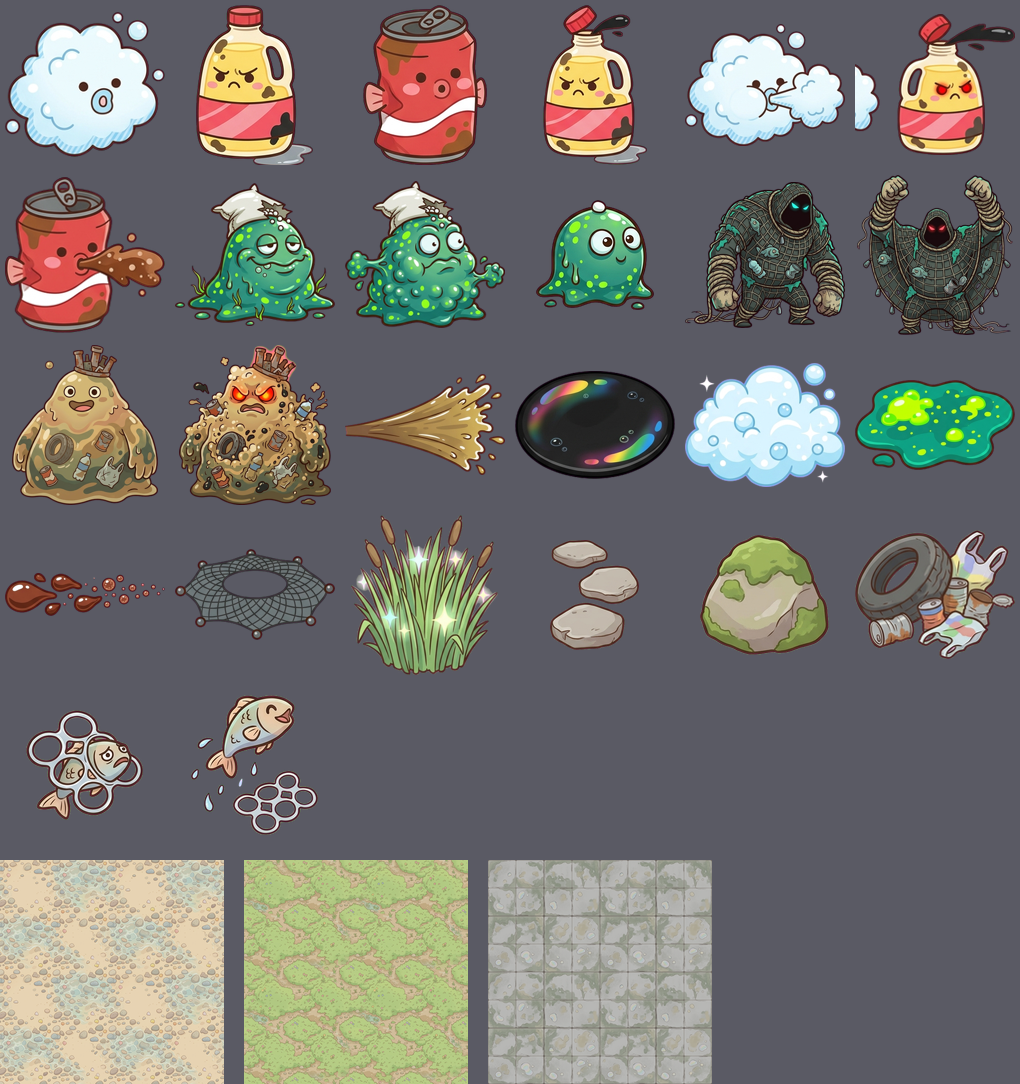
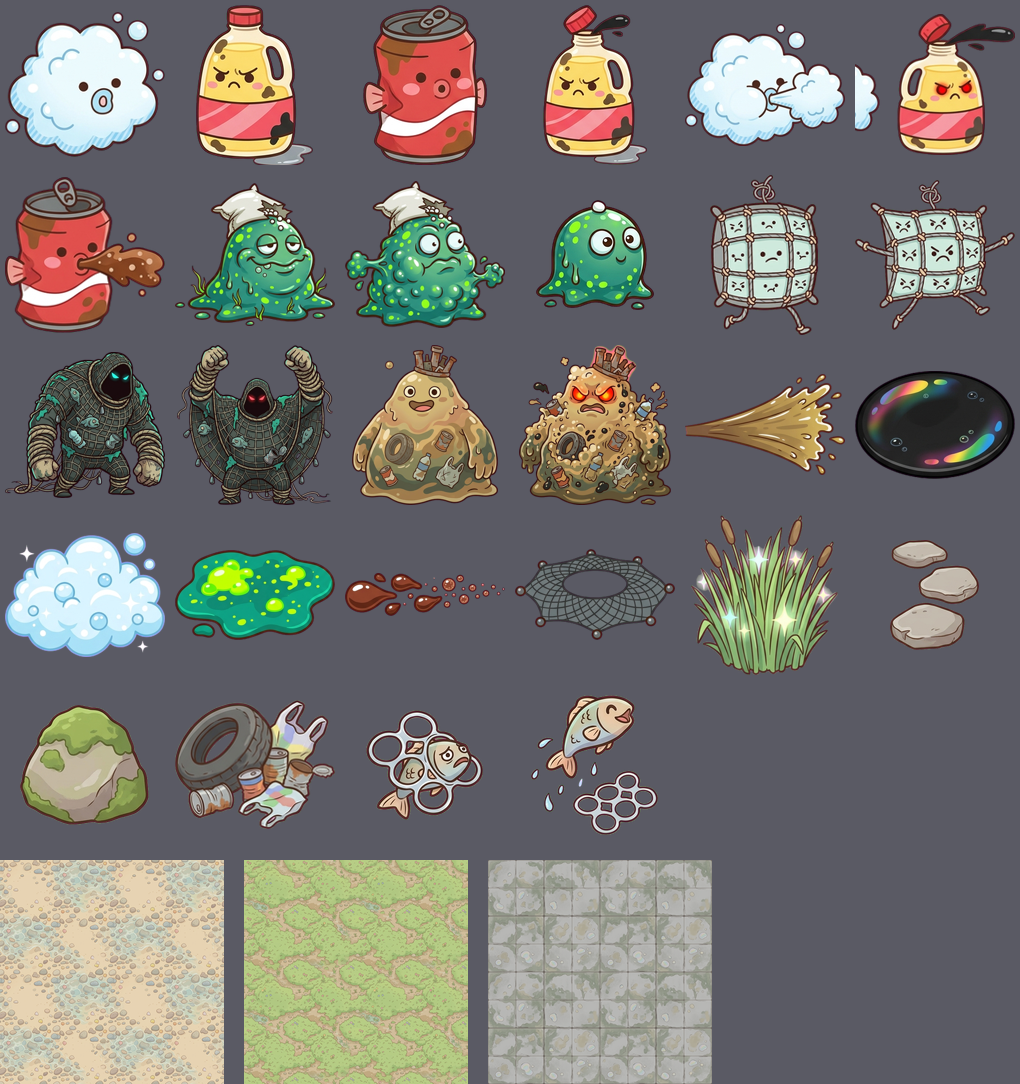
feat(ch3): replace the algae-mon with the net-mon (student's original net design)
The user's Gemini art of the student's original net monster (square net
body, a small face in every cell, thin rope limbs) becomes a normal enemy
in 3-4 and 3-5 instead of the algae-mon. It follows the player, and when
close spreads its net body (0.6 s warning, landing circle shown) and
pounces; if caught, the player is tangled at half speed for up to 3 s
(shaking frees faster, 1 s grace afterwards), distinct from the mid-boss
net that roots the player. Algae split/puddle code removed; the algae art
stays in the repository unused. 3-4 story, tip and knowledge card updated.
Tests 153/153; PC 1280 and phone 375 checked on the isolated server.

Claude-Session: https://claude.ai/code/session_018FkBuS6axNqY442iY2JwBP

diff --git a/game/src/themes.js b/game/src/themes.js
@@ -35,7 +35,7 @@ export const THEMES = [
       "세제를 많이 쓰면 거품이 개울까지 흘러가요. 세제는 조금만!",
       "쓰고 남은 식용유는 하수구에 붓지 말고 신문지에 흡수시켜 버려요.",
       "버려진 그물과 낚싯줄은 '유령 그물'이 되어 물고기를 계속 잡아요. 낚시 도구는 꼭 되가져가요.",
-      "비료와 세제를 적게 쓰면 녹조가 줄어요. 녹조가 번지면 물고기가 숨쉬기 힘들어요.",
+      "갈대는 더러운 물을 걸러 주는 자연 정수기예요. 물가 갈대숲을 지켜 주세요.",
       "물이 맑아지면 수달이 돌아와요!",
     ],
   },
@@ -144,9 +144,9 @@ export const T2_STAGES = [
 //  bubbler(거품몬: 거리를 두고 거품 쏘기 → 맞으면 잠깐 화면이 뿌예짐, 지나간 자리에 거품 웅덩이) ·
 //  oiler(페트리: 떼로 둘러싸고, 가까이 오면 뚜껑이 들썩(예고) → 앞으로 기름 뿜기, 기름 웅덩이) ·
 //  shooter(콜라 캔: 멀리서 조준(예고) → 콜라 물줄기 한 발) ·
-//  algae(녹조몬: 녹조 웅덩이를 남김, 8초 안에 정화 못 하면 부풀었다가 작은 녹조몬 2마리로 번식) ·
+//  pouncer(그물몬: 졸졸 따라오다 가까우면 그물 몸을 펼치고(예고) 그 자리로 덮침 → 걸리면 3초 동안 엉켜 느려짐 — 2026-09-30 저녁 녹조몬 대신, 학생 그물 몬스터 원안) ·
 //  netter(유령그물 대장: 졸졸 따라오고 밀려나지 않음, 팔을 들어 그물을 펼치면(예고) 표시된 원에 그물 → 걸리면 최대 3초 못 움직임).
-// cleanse = 정화될 때 바뀌는 모습(학생 원안: 거품몬 → 깨끗한 물통 · 페트리 → 화분 · 콜라 캔 → 생수병 · 녹조몬 → 수련 잎 · 대장 → 풀려나는 물고기).
+// cleanse = 정화될 때 바뀌는 모습(학생 원안: 거품몬 → 깨끗한 물통 · 페트리 → 화분 · 콜라 캔 → 생수병 · 그물몬 → 물고기 · 대장 → 풀려나는 물고기).
 export const T3_ENEMIES = {
   T3_BUBBLE:  { name: "거품몬", type: "normal", behavior: "bubbler", hpMult: 1.3, atkMult: 0.9, spdU: 2.3, radiusU: 0.45, mass: 1, xp: 3, sprite: "t3_en_bubble", drawH: 50,
                 frames: { atk: "t3_en_bubble_atk" }, cleanse: "깨끗한 물통" },
@@ -154,9 +154,8 @@ export const T3_ENEMIES = {
                 frames: { windup: "t3_en_petri_windup", fire: "t3_en_petri_fire" }, cleanse: "화분" },
   T3_CAN:     { name: "콜라 캔 몬스터", type: "normal", behavior: "shooter", hpMult: 1.5, atkMult: 1.0, spdU: 2.2, radiusU: 0.42, mass: 1.2, xp: 3, sprite: "t3_en_can", drawH: 48,
                 frames: { fire: "t3_en_can_fire" }, cleanse: "생수병" },
-  T3_ALGAE:   { name: "녹조몬", type: "normal", behavior: "algae", hpMult: 2.0, atkMult: 1.1, spdU: 1.7, radiusU: 0.5, mass: 1.6, xp: 4, sprite: "t3_en_algae", drawH: 56,
-                frames: { swell: "t3_en_algae_swell" }, split: { id: "T3_ALGAE_S", n: 2, afterS: 8 }, cleanse: "수련 잎" },
-  T3_ALGAE_S: { name: "작은 녹조몬", type: "normal", behavior: "algae", hpMult: 0.8, atkMult: 0.8, spdU: 2.4, radiusU: 0.32, mass: 0.6, xp: 2, sprite: "t3_en_algae_small", drawH: 34, cleanse: "수련 잎" },
+  T3_NETMON:  { name: "그물몬", type: "normal", behavior: "pouncer", hpMult: 1.8, atkMult: 1.0, spdU: 2.4, radiusU: 0.45, mass: 1.2, xp: 3, sprite: "t3_en_netmon", drawH: 54,
+                frames: { pounce: "t3_en_netmon_pounce" }, cleanse: "물고기" },
   T3_NET:     { name: "유령그물 대장", type: "elite", behavior: "netter", hpMult: 16, atkMult: 1.6, spdU: 1.35, radiusU: 0.9, mass: 9, xp: 25, sprite: "t3_en_net", drawH: 112, heavy: true,
                 frames: { windup: "t3_en_net_throw" }, cleanse: "풀려나는 물고기" },
 };
@@ -171,8 +170,8 @@ export const T3_STAGES = [
   { mix: ["T3_BUBBLE"], elites: [], dark: 0.08, floor: "t3_floor_stream", hint: "거품몬이 쏜 거품에 맞으면 잠깐 앞이 뿌예져요 · 걸린 물고기 옆에 서면 풀려나요" },
   { mix: ["T3_BUBBLE", "T3_PETRI"], elites: [], dark: 0.1, floor: "t3_floor_bank", hint: "페트리 뚜껑이 들썩이면 곧 기름을 뿜어요! 옆으로 피해요" },
   { mix: ["T3_BUBBLE", "T3_PETRI", "T3_CAN"], elites: [{ id: "T3_NET", atS: 180 }, { id: "T3_NET", atS: 660 }], dark: 0.12, floor: "t3_floor_stream", hint: "유령그물 대장이 팔을 들면 표시된 원 밖으로! 그물에 걸리면 좌우로 흔들어요" },
-  { mix: ["T3_BUBBLE", "T3_PETRI", "T3_CAN", "T3_ALGAE"], elites: [{ id: "T3_NET", atS: 450 }], dark: 0.15, floor: "t3_floor_bank", hint: "녹조몬은 8초가 지나면 둘로 나뉘어요. 먼저 정화해요!" },
-  { mix: ["T3_BUBBLE", "T3_PETRI", "T3_CAN", "T3_ALGAE"], elites: [{ id: "T3_NET", atS: 300 }], dark: 0.18, floor: "t3_floor_sewer", boss: "T3_BOSS", hint: "구정물 대왕! 대왕이 뿌린 비닐 고리에서 물고기를 구하면 대왕이 약해져요" },
+  { mix: ["T3_BUBBLE", "T3_PETRI", "T3_CAN", "T3_NETMON"], elites: [{ id: "T3_NET", atS: 450 }], dark: 0.15, floor: "t3_floor_bank", hint: "그물몬이 그물 몸을 펼치면 표시된 원 밖으로! 걸리면 좌우로 흔들어요" },
+  { mix: ["T3_BUBBLE", "T3_PETRI", "T3_CAN", "T3_NETMON"], elites: [{ id: "T3_NET", atS: 300 }], dark: 0.18, floor: "t3_floor_sewer", boss: "T3_BOSS", hint: "구정물 대왕! 대왕이 뿌린 비닐 고리에서 물고기를 구하면 대왕이 약해져요" },
 ];
 
 const DEFAULT_TIP = "우리가 매일 하는 작은 선택이 지구를 바꿔요.";

diff --git a/game/src/rework-core.js b/game/src/rework-core.js
@@ -183,7 +183,7 @@ export const STAGES = [
   { id:'CH11', name:'징검다리 개울', goal:'비닐에 걸린 물고기 3마리 구하기', target:3, enemyHp:1.6, enemyAtk:1.48, density:2.05, tip:'', story:'개울에 세제 거품이 둥둥! 거품몬을 정화하고 걸린 물고기를 구해 주자.', unlock:'' },
   { id:'CH12', name:'빨래터', goal:'비닐에 걸린 물고기 4마리 구하기', target:4, enemyHp:1.7, enemyAtk:1.54, density:2.15, tip:'', story:'식용유 통 페트리가 떼로 몰려와! 뚜껑이 들썩이면 옆으로 피하자.', unlock:'' },
   { id:'CH13', name:'하수구 옆', goal:'비닐에 걸린 물고기 5마리 구하기', target:5, enemyHp:1.8, enemyAtk:1.6, density:2.2, tip:'', story:'버려진 그물이 뭉친 유령그물 대장이 나타났어! 그물에 걸리지 않게 조심해.', unlock:'' },
-  { id:'CH14', name:'갈대 여울', goal:'비닐에 걸린 물고기 6마리 구하기', target:6, enemyHp:1.9, enemyAtk:1.66, density:2.25, tip:'', story:'녹조몬이 번지고 있어! 둘로 나뉘기 전에 빨리 정화하자.', unlock:'' },
+  { id:'CH14', name:'갈대 여울', goal:'비닐에 걸린 물고기 6마리 구하기', target:6, enemyHp:1.9, enemyAtk:1.66, density:2.25, tip:'', story:'버려진 그물이 뭉친 그물몬이 졸졸 따라와! 그물 몸을 펼치면 옆으로 피하자.', unlock:'' },
   { id:'CH15', name:'오수 배출구', goal:'비닐에 걸린 물고기 5마리 구하기', target:5, enemyHp:1.95, enemyAtk:1.7, density:2.25, tip:'', story:'오수 배출구에서 구정물 대왕이 솟아올랐어! 물고기를 구해 대왕을 약하게 만들자.', unlock:'' },
 ];
 
@@ -201,7 +201,7 @@ const stageCopy=[
  ['구정물 웅덩이 안에서는 앞이 잘 안 보여요. 갈대숲 곁은 안전해요.','첫 성공 코인 120개 추가'],
  ['페트리가 지나간 기름 웅덩이를 밟으면 미끌미끌 느려져요.','첫 성공 코인 120개 추가'],
  ['그물에 걸리면 방향키를 좌우로 흔들거나 손가락을 좌우로 문질러요.','첫 성공 코인 120개 추가'],
- ['녹조몬 몸이 빵빵해지면 곧 둘로 나뉘어요.','첫 성공 코인 120개 추가'],
+ ['그물몬에게 걸리면 느려져요. 방향키를 좌우로 흔들면 빨리 풀려요.','첫 성공 코인 120개 추가'],
  ['물고기를 5마리 구하면 대왕도 약해져요!','보급권 1장 추가 + 코인 60개 더'],
 ];
 STAGES.forEach((s,i)=>{s.tip=stageCopy[i][0];s.unlock=stageCopy[i][1];});

diff --git a/game/src/rework-ui.js b/game/src/rework-ui.js
@@ -55,7 +55,7 @@ const difficultyHelp=id=>{const d=R.DIFFICULTIES[id]||R.DIFFICULTIES.easy;return
 const CHAPTERS=[
  {n:'1',from:0,eyebrow:'CHAPTER 01',name:'쓰레기 마을',short:'쓰레기 마을',title:'다섯 원소로 지키는 마을',sub:'이동에 집중하세요. 공격은 자동으로, 스킬은 내 선택으로.',art:'t1',pictures:['en_snackbag','en_buttbug','en_bottle','en_baggy','boss_calm']},
  {n:'2',from:5,eyebrow:'CHAPTER 02',name:'대기오염 공장 지대',short:'대기오염 공장',title:'매연을 걷어 내는 공장 지대',sub:'굴뚝마다 시커먼 매연! 먼지몬·가스몬·세균몬을 정화하고 맑은 공기를 되찾아요.',art:'t2',pictures:['en_dust','en_gas','en_germ','en_raincloud','boss_calm']},
- {n:'3',from:10,eyebrow:'CHAPTER 03',name:'오염된 하천',short:'오염된 하천',title:'물고기가 돌아오는 맑은 개울',sub:'세제 거품·기름·녹조로 개울이 아파요! 우리 학교 친구들이 만든 하천 몬스터를 정화하고 걸린 물고기를 구해요.',art:'t3',pictures:['en_bubble','en_petri','en_net','en_algae','boss_calm']},
+ {n:'3',from:10,eyebrow:'CHAPTER 03',name:'오염된 하천',short:'오염된 하천',title:'물고기가 돌아오는 맑은 개울',sub:'세제 거품·기름·버려진 그물로 개울이 아파요! 우리 학교 친구들이 만든 하천 몬스터를 정화하고 걸린 물고기를 구해요.',art:'t3',pictures:['en_bubble','en_petri','en_net','en_netmon','boss_calm']},
 ];
 const chapterStages=c=>R.STAGES.slice(c.from,c.from+5);
 export class GuardianUI {

diff --git a/game/src/assets.js b/game/src/assets.js
@@ -82,9 +82,8 @@ export const SPRITE_FILES = {
   t3_en_petri_fire: IMG_BASE + "t3/en_petri_fire.png",
   t3_en_can: IMG_BASE + "t3/en_can.png",
   t3_en_can_fire: IMG_BASE + "t3/en_can_fire.png",
-  t3_en_algae: IMG_BASE + "t3/en_algae.png",
-  t3_en_algae_swell: IMG_BASE + "t3/en_algae_swell.png",
-  t3_en_algae_small: IMG_BASE + "t3/en_algae_small.png",
+  t3_en_netmon: IMG_BASE + "t3/en_netmon.png",
+  t3_en_netmon_pounce: IMG_BASE + "t3/en_netmon_pounce.png",
   t3_en_net: IMG_BASE + "t3/en_net.png",
   t3_en_net_throw: IMG_BASE + "t3/en_net_throw.png",
   t3_boss_calm: IMG_BASE + "t3/boss_calm.png",
@@ -98,7 +97,6 @@ export const SPRITE_FILES = {
   t3_fx_wave: IMG_BASE + "t3/fx_wave.png",
   t3_fx_oil: IMG_BASE + "t3/fx_oil.png",
   t3_fx_foam: IMG_BASE + "t3/fx_foam.png",
-  t3_fx_algae: IMG_BASE + "t3/fx_algae.png",
   t3_fx_cola: IMG_BASE + "t3/fx_cola.png",
   t3_fx_net: IMG_BASE + "t3/fx_net.png",
   t3_floor_stream: IMG_BASE + "t3/floor_stream.png",

diff --git a/game/src/content.js b/game/src/content.js
@@ -259,7 +259,7 @@ for (const [id, r] of Object.entries({ ...T1_ENEMIES, ...T2_ENEMIES, ...T3_ENEMI
     sprite: r.sprite, tint: null, hiRes: true, drawH: r.drawH,          // 고해상도 그림: 색조 없이 부드럽게 축소
     drawScale: (r.type === "elite" ? 2.4 : 1.5) * (0.8 + r.radiusU), bobAmp: r.type === "elite" ? 2.4 : 1.8, extraDr: 0,
     summon: r.summon || null, onDeathSpawn: r.onDeathSpawn || null, frames: r.frames || null,
-    split: r.split || null, heavy: !!r.heavy, cleanse: r.cleanse || null,   // 3장: 녹조몬 번식 · 밀려나지 않는 대장 · 정화되면 바뀌는 모습
+    heavy: !!r.heavy, cleanse: r.cleanse || null,   // 3장: 밀려나지 않는 대장 · 정화되면 바뀌는 모습
   };
 }
 BOSSES[T1_BOSS.id] = { ...T1_BOSS, shape: "tree", palette: paletteFor([130, 150, 60]), palette2: paletteFor([200, 90, 60]) };

diff --git a/game/tools/cut_theme3.py b/game/tools/cut_theme3.py
@@ -32,11 +32,16 @@ SHEETS = [
         ("en_petri_fire.png",    cell(2, 1), 160, "all", 0.01),
         ("en_can_fire.png",      cell(2, 2), 160, "all", 0.004),
     ]),
-    # 녹조몬: 평소 · 나뉘기 직전 · 작은 녹조몬(떨어지는 방울까지)
+    # 녹조몬: 평소 · 나뉘기 직전 · 작은 녹조몬(떨어지는 방울까지) — 2026-09-30 저녁 그물몬으로 바꿔 게임에서는 쓰지 않음(그림은 보관)
     ("적_03d_녹조몬.png", (35, 150), [], [
         ("en_algae.png",       (20, 110, 540, 610), 180, "all", 0.002),
         ("en_algae_swell.png", (540, 100, 1060, 600), 180, "all", 0.002),
         ("en_algae_small.png", (1060, 320, 1345, 600), 110, "all", 0.002),
+    ]),
+    # 그물몬(2026-09-30 저녁, 녹조몬 대신 — 학생 그물 몬스터 원안, 사용자 Gemini): 평소 · 덮치기 직전. 오른쪽 아래 Gemini 별 표식은 지운다
+    ("적_03e_그물몬.png", (35, 150), [(918, 458, 958, 505)], [
+        ("en_netmon.png",        (55, 15, 445, 545), 170, "all", 0.003),
+        ("en_netmon_pounce.png", (455, 10, 1018, 548), 170, "all", 0.003),
     ]),
     # 유령그물 대장(중간 보스): 평소 · 그물 던지기 직전
     ("적_03c_유령그물대장.png", (35, 150), [], [

diff --git a/docs/41_3장_오염된_하천_구현.md b/docs/41_3장_오염된_하천_구현.md
@@ -12,7 +12,7 @@
 | 3-1 CH11 | 징검다리 개울 | 거품몬 | 비닐에 걸린 물고기 3마리 구하기 | 1.6 / 1.48 | 개울가 자갈 |
 | 3-2 CH12 | 빨래터 | 페트리(떼) | 물고기 4마리 | 1.7 / 1.54 | 풀밭 물가 |
 | 3-3 CH13 | 하수구 옆 | 콜라 캔 몬스터 + 중간 보스 유령그물 대장 | 물고기 5마리 | 1.8 / 1.6 | 개울가 자갈 |
-| 3-4 CH14 | 갈대 여울 | 녹조몬 | 물고기 6마리 | 1.9 / 1.66 | 풀밭 물가 |
+| 3-4 CH14 | 갈대 여울 | 그물몬(녹조몬 대신, 2026-09-30 저녁) | 물고기 6마리 | 1.9 / 1.66 | 풀밭 물가 |
 | 3-5 CH15 | 오수 배출구 | 보스 구정물 대왕 | 물고기 5마리(대왕이 뿌린 비닐 고리에서 5마리 구할 때마다 대왕 약해짐) | 1.95 / 1.7 | 시멘트 배수로 |
 - 3-1은 2-5를 성공하면 열린다(앞 단계 규칙 그대로). 3-5는 1-5·2-5와 같은 대왕 단계: 4분 뒤 대왕, 최대 6분, 첫 성공 보급권 +1·코인 +60.
 - 오염 구역 = 구정물 웅덩이(1장 악취·2장 매연 자리: 시야가 좁아지고 새싹 ×1.5), 안전 구역 = 갈대숲(1장 분리수거함 자리).
@@ -25,9 +25,9 @@
 | 거품몬 | 3.5칸까지 다가와 6칸 안이면 볼을 부풀리고(0.7초, 하늘색 고리) → 느린 거품 한 발. 맞으면 1.6초 동안 화면 가장자리에 거품이 끼어 뿌예짐(가운데는 보임). 지나간 자리에 납작한 거품 웅덩이(3.5초, 느려짐) | 깨끗한 물통 |
 | 페트리 | 작고 두 마리씩 떼로 나와 둘러쌈. 2.2칸 안이면 뚜껑이 들썩(0.7초, 그림도 바뀜·기름 부채꼴 표시) → 앞으로 기름(2.6칸 부채꼴) + 앞에 기름 웅덩이(5초, 느려짐) | 화분 |
 | 콜라 캔 몬스터 | 5칸 거리를 지키고 가까우면 물러남. 8칸 안이면 멈춰 조준(0.8초, 빨간 조준선이 차오름) → 콜라 한 발(빠름). 돌 궤도 파츠로 막힘 | 생수병 |
-| 녹조몬 | 느리게 다가오며 녹조 웅덩이(4.5초, 느려짐). 나타나고 8초 안에 정화 못 하면(마지막 3초는 초록 고리가 줄어듦) 몸이 빵빵해지고(1초, 깜빡이는 원) → 작은 녹조몬 2마리. 작은 것은 더 안 나뉜다. 나뉘어 사라진 것은 정화 수·새싹에 넣지 않음 | 수련 잎 |
+| 그물몬(학생 그물 몬스터 원안, 녹조몬 대신) | 졸졸 끝까지 따라오다 1.8칸 안이면 그물 몸을 펼치고(0.6초, 그림도 바뀜·덮칠 자리에 원) → 그 자리로 덮침(0.25초). 원 안이면 **3초 동안 그물이 엉켜 절반 속도**(흔들 때마다 0.35초씩 빨리 풀림, 풀린 뒤 1초는 다시 안 걸림). 대장 그물(못 움직임)과 구분 | 물고기 |
 | 유령그물 대장(중간 보스) | 크고 느리게 끝까지 따라오고 밀려나지 않음. 등장 때 "유령그물 대장 등장!". 7.5칸 안이면 팔을 들고(1.2초, 그림도 바뀜) 내 자리에 원 표시·그물이 날아옴 → 원 안이면 **그물에 걸려 최대 3초 못 움직임**(방향을 바꿔 흔들 때마다 0.35초씩 빨리 풀림, 최소 1초). 걸려도 스킬·기본 무기는 계속 나감. 쓰러지면 물고기 6마리가 풀려나 뛰어오름 | 풀려나는 물고기 |
-- 웅덩이(거품·기름·녹조)는 느려지기만 하고 닳지 않는다(한꺼번에 24개까지, 느려지는 범위는 옅은 테두리로 보임). 대왕의 기름 웅덩이만 1장 악취 구름처럼 느려지고 조금씩 닳는다.
+- 웅덩이(거품·기름)는 느려지기만 하고 닳지 않는다(한꺼번에 24개까지, 느려지는 범위는 옅은 테두리로 보임). 대왕의 기름 웅덩이만 1장 악취 구름처럼 느려지고 조금씩 닳는다.
 - "정화되면" 모습은 그림이 없어 이번 시안에는 넣지 않았다(대장의 물고기만 기존 물고기 그림으로). 그림을 만들면 쓰러질 때 바뀌는 모습으로 넣을 수 있다.
 
 ## 대왕: 구정물 대왕(boss-patterns.js BOSS_PATTERNS_T3, 1-5·2-5와 같은 거리별 틀)
@@ -51,12 +51,12 @@
 - `game/src/rework-core.js`: STAGES CH11~CH15·안내 문구, `BOSS_STAGES`에 CH15, `HARD_READY[3]`·`HARD_MIN[3]`. `rework-content.js`: 3장 밀도·구정물 웅덩이 비율, 3-5 대왕 체력·기술표·난이도 체력. `boss-patterns.js`: BOSS_PATTERNS_T3(drop 그림·field 웅덩이).
 - `game/src/main.js`: `THEME_SKIN[3]`(물고기·갈대숲·문구, 오염 구역 이름을 장마다 — 2장도 "매연 구역"으로), 3장 소품, sgT3Tick(5가지 행동)·웅덩이·그물·뛰어오르는 물고기, 그물에 걸림(updatePlayer), 밀려나지 않는 대장, 녹조몬 번식(보상 없이 사라짐), 거품 화면 효과, 적 탄 그림(거품·콜라), 대왕 기름 웅덩이·파도, QA `__sgT3`.
 - `game/src/theme-effects.js`: SKINS[3], 구정물 웅덩이 그림, 부채꼴 그림(불꽃·파도), 거품·기름 터짐, 떨어질 자리 그림(pat.drop).
-- `rework-ui.js`·`rework.css`: 장 이동 막대에 3장, 3장 색(개울 파랑·갈대 초록·모래), 단계 카드 그림(거품몬·페트리·유령그물 대장·녹조몬·대왕), 출동 그림(마을 카드: 오염된 개울 → 3-5 정화 후 맑은 개울과 수달). 폰(760px 이하)에서는 장 단추 3개가 한 줄에 들어가도록 단추 안을 세로로("N장" 위, 이름·진행 아래) — 가로 배치 그대로면 "대기오염 공장"이 옆 단추로 넘쳤다.
+- `rework-ui.js`·`rework.css`: 장 이동 막대에 3장, 3장 색(개울 파랑·갈대 초록·모래), 단계 카드 그림(거품몬·페트리·유령그물 대장·그물몬·대왕), 출동 그림(마을 카드: 오염된 개울 → 3-5 정화 후 맑은 개울과 수달). 폰(760px 이하)에서는 장 단추 3개가 한 줄에 들어가도록 단추 안을 세로로("N장" 위, 이름·진행 아래) — 가로 배치 그대로면 "대기오염 공장"이 옆 단추로 넘쳤다.
 - 검사: `tests/theme3.test.mjs`(단계·해금·대왕 단계 보상·적/대왕 데이터·기술표·그림 파일). 단계 수가 15가 되어 `theme2`·`admin-roles`·`hard-training` 검사의 개수 기준을 고침.
 
 ## 확인(격리 서버 node-server.mjs, 메모리 DB)
 - 검사 153/153.
-- PC 1280·폰 375(Chromium): 로비 3장(열림·잠김), 3-1~3-5 전투(거품·구정물 웅덩이·기름·조준·그물 예고와 걸림·녹조 번식·대왕 파도·기름 웅덩이·비닐 고리 물고기·화난 모습·쓰레기 튀기기). 스크립트 오류 0, 폰 장 단추 넘침 0·가로 스크롤 없음.
+- PC 1280·폰 375(Chromium): 로비 3장(열림·잠김), 3-1~3-5 전투(거품·구정물 웅덩이·기름·조준·그물 예고와 걸림·그물몬 덮치기와 엉킴·대왕 파도·기름 웅덩이·비닐 고리 물고기·화난 모습·쓰레기 튀기기). 스크립트 오류 0, 폰 장 단추 넘침 0·가로 스크롤 없음.
 
 ## 모의(격리 서버, 자동 조종 __debugPilot) — 짧은 확인(빌드마다 2판, 파츠·친구·장비 등급은 모두 같게)
 | 빌드(난이도, 훈련·등급 — 파츠 10종·친구 4마리·장비 6칸을 모두 그 등급으로 갖춘 시험 계정) | 단계 | 결과 |
@@ -68,6 +68,12 @@
 | 보통, 훈련 40·에픽 | 3-5 (비교 2-5) | 2/2, 대왕전 14·20초 (2-5: 14·39초) |
 | 어려움, 훈련 80·전설 | 3-5 (비교 2-5) | 2/2, 대왕전 24·39초 (2-5: 6·27초) |
 - 3장은 2장과 비슷한 쉽기이고 대왕은 조금 더 오래 버틴다. 강한 빌드에서는 2-5·3-5 대왕 모두 짧게 끝난다(지금 게임 전체의 성질). 어려움 낮은 빌드(훈련 20~40)와 판 수를 늘린 모의는 아직.
+
+## 녹조몬 → 그물몬(2026-09-30 저녁, 사용자)
+- 사용자: "녹조 몬스터 대신에 기존 그물 몬스터 안으로". 학생 그물 몬스터 원안(네모 그물 몸·칸마다 찡그린 얼굴·가는 팔다리)을 일반 몬스터 "그물몬"으로. 그림은 사용자 Gemini(`이미지 에셋/적_03e_그물몬.png`, 받은 webp를 PNG로, 오른쪽 아래 별 표식은 자르기에서 지움) → `t3/en_netmon.png`·`en_netmon_pounce.png`.
+- 3-4·3-5의 녹조몬 자리를 그물몬으로. 녹조몬(번식)·녹조 웅덩이 코드는 뺐고, 녹조몬 그림 파일은 저장소에 보관(게임은 읽지 않음). 3-4 지식 카드는 "갈대는 자연 정수기"로, 로비 소개 글의 "녹조"는 "버려진 그물"로.
+- 확인: 검사 153/153, 격리 서버 PC 1280·폰 375 3-4(다가옴·덮치기 원·엉킴), 스크립트 오류 0.
+- 자동 조종 모의(빌드마다 2판): 보통 3-4 훈련 15·노말 2/2 · 훈련 30·유니크 2/2(체력 거의 가득), 보통 3-5 훈련 25·유니크 2/2(대왕전 22·25초 — 녹조몬 때 63·73초보다 짧음, 녹조몬 번식으로 적이 많던 몫이 빠진 것으로 보임).
 
 ## 남은 것(사용자와 정할 것)
 - 밸런스: 어려움 낮은 빌드 모의·판 수 늘리기, 3-5 대왕 체력, 어려움 기준(지금은 2장과 같음).

diff --git a/이미지 에셋/테마3_개울_프롬프트.md b/이미지 에셋/테마3_개울_프롬프트.md
@@ -15,11 +15,11 @@
 | 3-1 (11) | 징검다리 개울 | 거품몬 | 입에서 거품을 쏨(맞으면 잠깐 화면이 뿌예짐), 지나간 자리에 거품 웅덩이 |
 | 3-2 (12) | 빨래터 | 페트리(떼) | 작고 떼로 끝까지 따라옴, 가까이 오면 뚜껑이 들썩(예고) → 기름 뿜기, 기름 웅덩이 |
 | 3-3 (13) | 하수구 옆 | 콜라 캔 몬스터 + 중간 보스 **유령그물 대장** | 캔: 멀리서 콜라 발사 / 대장: 팔을 들어 그물을 펼침(예고) → 그물 던지기, 걸리면 최대 3초 못 움직임 |
-| 3-4 (14) | 갈대 여울 | 녹조몬 + 총출동 | 녹조 웅덩이를 남김, 8초 안에 정화 못 하면 작은 녹조몬 2마리로 번식 |
+| 3-4 (14) | 갈대 여울 | 그물몬 + 총출동 (2026-09-30 저녁 녹조몬 대신) | 졸졸 따라오다 그물 몸을 펼치고(예고) 덮침 → 걸리면 3초 동안 엉켜 느려짐 |
 | 3-5 (15) | 오수 배출구 | 보스 **구정물 대왕** | 근거리: 구정물 파도(부채꼴) / 중거리: 기름 웅덩이 뿌리기(장판) / 원거리: 거품 폭탄(떨어질 자리 표시)·거품몬 부르기. 화나면(50%) 몸에서 쓰레기가 튀어나오며 더 자주 |
 - 단계 목표: **비닐 고리에 걸린 물고기 구하기**(물고기 옆에 서면 풀려남). 대왕전에서는 구한 물고기 5마리마다 대왕이 약해진다.
 - 오염 구역: 구정물 웅덩이(안에 있으면 느려지고 조금씩 닳음). 안전 구역: 갈대숲.
-- 정화되면(학생 원안): 거품몬 → 깨끗한 물통 · 페트리 → 화분 · 콜라 캔 → 생수병 · 녹조몬 → 수련 잎 · 유령그물 대장 → 풀려나는 물고기들.
+- 정화되면(학생 원안): 거품몬 → 깨끗한 물통 · 페트리 → 화분 · 콜라 캔 → 생수병 · 그물몬 → 물고기 · 유령그물 대장 → 풀려나는 물고기들.
 
 ## 그림 목록
 | 순서 | 저장 이름 | 내용 | 꼭 필요 |
@@ -34,13 +34,13 @@
 | 8 | `바닥_03b_물가.png` | 풀밭과 진흙 물가(3-2·3-4) | 권장 |
 | 9 | `바닥_03c_하수구.png` | 대왕 무대 시멘트 배수로(3-5) | 권장 |
 | 10 | `마을카드_03_개울.png` | 로비 카드: 더러운 개울 / 맑아진 개울 | 선택 |
-| 11 | `적_03e_그물몬.png` | 그물몬(학생 그물 몬스터 원안) 평소 · 덮치기 직전 — 녹조몬 자리를 대신함(2026-09-30 저녁 사용자) | 필수 |
+| 11 | `적_03e_그물몬.png` | 그물몬(학생 그물 몬스터 원안) 평소 · 덮치기 직전 — 녹조몬 자리를 대신함(2026-09-30 저녁 사용자) | 필수 — 도착·게임 반영(사용자 Gemini, 좋음) |
 
 ## 그림 상태 (2026-09-30 — 10장 모두 도착, 오후에 게임에 넣은 시안까지: `docs/41_3장_오염된_하천_구현.md`)
 | 순서 | 실제 파일 | 만든 곳 | 점검 |
 |---|---|---|---|
 | 1 | `적_03_하천3종.png` | Antigravity | 좋음 — 3×3(9개)로 옴. 가운데 줄 거품몬·콜라 캔은 위 줄과 같은 그림이라 안 쓰고, 페트리 "뚜껑 들썩"은 예고 모습으로 씀 |
-| 2 | `적_03d_녹조몬.png` | Antigravity | 좋음 — 비료 포대 모자·연두 얼룩·3모습 |
+| 2 | `적_03d_녹조몬.png` | Antigravity | 좋음 — 비료 포대 모자·연두 얼룩·3모습. 2026-09-30 저녁 그물몬으로 바꿔 게임에서는 안 씀(보관) |
 | 3 | `적_03c_유령그물대장.png` | Antigravity | 좋음 — 묵직하고 험상궂음, 두건 속 청록 눈·부표 주먹, 팔 든 모습은 눈이 빨강 |
 | 4 | `보스_03_구정물대왕.png` | Antigravity | 좋음 — 평소·화난 모습 |
 | 5 | `효과_03_개울.png` | Antigravity | 좋음 — 6개(자리가 순서와 조금 다름: 오른쪽 위 기름, 가운데 줄 녹조·거품) |

diff --git a/game/STATUS.md b/game/STATUS.md
@@ -1,5 +1,10 @@
 # LUMEN 플레이 가능 시제품 — 구현 현황 (최신: 2026-09-22)
 
+## 2026-09-30(8). 그물몬 그림 도착 → 3-4·3-5 녹조몬을 그물몬으로 (Claude, 실서버 배포 전) — `docs/41` 끝
+- 사용자가 Gemini로 만든 그물몬 그림(평소·덮치기 직전)을 `이미지 에셋/적_03e_그물몬.png`로 저장하고 `cut_theme3.py`로 잘랐다(오른쪽 아래 별 표식 지움).
+- 그물몬: 졸졸 따라오다 1.8칸 안이면 그물 몸을 펼치고(0.6초, 덮칠 자리에 원) 덮침 → 원 안이면 3초 동안 엉켜 절반 속도(흔들면 빨리 풀림, 풀린 뒤 1초는 안 걸림). 대장 그물(못 움직임)과 구분. 녹조몬·번식·녹조 웅덩이 코드는 빼고 그림은 보관. 3-4 이야기·안내·지식 카드("갈대는 자연 정수기"), 로비 3-4 카드 그림도 그물몬으로.
+- 확인: 검사 153/153, 격리 서버 Chromium PC 1280·폰 375 3-4(다가옴·덮치기 원·엉킴), 스크립트 오류 0. 자동 조종 모의 결과는 docs/41.
+
 ## 2026-09-30(7). 녹조몬 대신 그물몬(학생 그물 몬스터 원안) — Gemini 프롬프트 (Claude, 게임 변경 없음)
 - 사용자: "녹조 몬스터 대신에 기존 그물 몬스터 안으로 바꿔보자" → "그물 몬스터 프롬프트 제시해줘. 이미지 만들어올게". 학생 원안(네모 그물 몸·칸마다 찡그린 얼굴·가는 팔다리)을 일반 몬스터 "그물몬"으로 살려 3-4·3-5의 녹조몬 자리에 넣는다. 프롬프트 `이미지 에셋/테마3_개울_프롬프트.md` 11번(`적_03e_그물몬.png`, 평소·덮치기 직전 2모습).
 - 행동 제안: 졸졸 따라오다 1.5칸 안이면 그물 몸을 펼치고(0.6초 예고) 덮침 → 3초 동안 엉켜 느려짐(흔들면 빨리 풀림). 대장은 못 움직임, 그물몬은 느려짐으로 구분. 그림이 오면 잘라서 게임의 녹조몬을 바꾼다(녹조몬 그림은 저장소에 그대로 둠).
